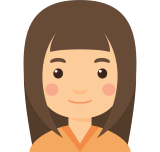
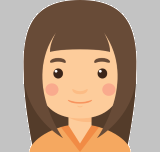
fixed photos
-made them look more similar

diff --git a/evan.php b/evan.php
@@ -21,7 +21,7 @@
         <main>
             <article class = "gcontainer glayout">
                 <section class = "intro boxy">
-                    <img class = "propic" src="images/self.jpg" alt="me">
+                    <img class = "propic" src="images/self.png" alt="me">
                     <p>I am a student at the University of Rochester, which is located in Rochester, NY. My major is undecided, but I plan on minoring in computer science. I grew up in the Washington D.C. area. I have also been involved in extracurricular activities such as running competitively and snowboarding. In my free time, I enjoy activities such as hiking, biking, and kayaking.</p>
                 </section>
 

diff --git a/list.php b/list.php
@@ -44,7 +44,7 @@
 
 					<section class="article part2">
 						<div class="left-flex">
-							<img src="images/self.jpg" alt="evan selfie">
+							<img src="images/self.png" alt="evan selfie">
 							<div class='goal'>
 								<h3>Evan Pollack</h3>
 								<p>Goal for Computer Science: To have a job that incorporates, but isn't limited to, web development and computer science principles.</p>
